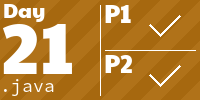
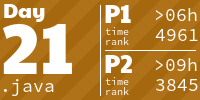
2024 day 21 complete

diff --git a/src/main/java/fr/home/mikedev/aoc2024/Main21.java b/src/main/java/fr/home/mikedev/aoc2024/Main21.java
@@ -1,12 +1,33 @@
 package fr.home.mikedev.aoc2024;
 
 import java.io.BufferedReader;
+import java.util.HashMap;
+import java.util.Map;
 
 import fr.home.mikedev.common.MainDay;
+import fr.home.mikedev.common.Pair;
 
 public class Main21 extends MainDay 
 {
-
+    String[] codes = new String[5];
+    
+    char[][] numpad = { {'7', '8', '9'}, 
+                        {'4', '5', '6'}, 
+                        {'1', '2', '3'}, 
+                        {'X', '0', 'A'} };
+    
+    char[][] dirpad = { {'X', '^', 'A'}, 
+                        {'<', 'v', '>'} };
+    
+    Map<Character, Pair<Integer>> numPadMap;
+    Map<Pair<Integer>, Character> numPadMapR;
+    Map<Character, Pair<Integer>> dirPadMap;
+    Map<Pair<Integer>, Character> dirPadMapR;
+    Map<Pair<Character>, String>   allPadDico;
+    
+    Map<String, String> convertCache;
+    Map<String, Long>   countCache;
+    
 	public Main21(String title, String year) {super(title, year, "21");}
 	
 	public void retrieveData()
@@ -14,9 +35,10 @@ public class Main21 extends MainDay
 		String line = null;	
 		try(BufferedReader reader = this.getReader())
 		{
+		    int i = 0;
             while((line = reader.readLine()) != null)
             {
-                log(line);
+                codes[i++] = line;
             }
 		}
 		catch (Exception ex)
@@ -28,13 +50,292 @@ public class Main21 extends MainDay
 	
 	public void doPart1()
 	{
+	    initData();
 		retrieveData();
-		setResultPart1(0);
+		
+		int sum = 0;
+		for(int c = 0; c < codes.length; c++)
+		{
+		    // 1 robotnumpad <- 1 robotdirpad <- 1 robotdirpad <- myself
+		    //  1 robotnumpad <- 2 robotdirpad <- myself
+		    String moves = codes[c];
+		    for(int i = 0; i < 3; i++)
+		    {
+		        moves = "A" + moves;
+		        moves = getMoveSequenceMemo(moves);
+		       //log(moves);
+		    }
+            
+            sum += moves.length()*Integer.parseInt(codes[c].substring(0, codes[c].length()-1));
+		}
+		
+		setResultPart1(sum); // 202648
 	}
 	
 	public void doPart2()
 	{
 		//retrieveData();
-	    setResultPart2(0);
+	    
+        long sum = 0;
+        for(int c = 0; c < codes.length; c++)
+        {
+            String moves = codes[c];
+            moves = "A" + moves;
+            moves = getMoveSequenceMemo(moves);
+        
+            moves = "A" + moves;
+            long len = 0;
+            for (int i = 0; i < moves.length()-1; i++)
+                len += countMove(moves.charAt(i), moves.charAt(i+1), 26);
+            
+            sum += len * Integer.parseInt(codes[c].substring(0, codes[c].length()-1));
+        }
+                
+	    setResultPart2(sum);
 	}
+	
+	String getMoveSequence(String code)
+    {
+        
+        String newCode = "";
+        for (int i = 0; i <code.length()-1; i++)
+            newCode += decompMove(code.charAt(i), code.charAt(i+1)) + 'A';
+        
+        return newCode;
+    }
+	
+	String getMoveSequenceMemo(String code)
+	{
+	    String newCode;
+	    if ((newCode = convertCache.get(code)) != null) return newCode;
+	    else newCode = "";
+	    for (int i = 0; i < code.length()-1; i++)
+            newCode += decompMove(code.charAt(i), code.charAt(i+1)) + 'A';
+            
+        convertCache.put(code, newCode);
+        return newCode;
+	}
+
+	String decompMove(char origine, char destination)
+	{
+	    if (origine == destination) return "";
+	    return allPadDico.get(Pair.<Character>builder().v1(origine).v2(destination).build());
+	}
+	
+	long countMove(char origine, char destination, int level)
+    {
+	    String key = String.valueOf(origine) + String.valueOf(destination) + String.valueOf(level);
+	    Long count;
+        if ((count = countCache.get(key)) != null) return count.longValue();
+        
+        if (level == 1) return 1; //decompMove(origine, destination).length();
+        
+        String s = "A" + decompMove(origine, destination) + "A";
+        long sum = 0;
+        for (int i = 0; i < s.length()-1; i++)
+            sum += countMove(s.charAt(i), s.charAt(i+1), level-1);
+        
+        countCache.put(key, sum);
+        return sum;
+    }
+	
+    public void initData()
+    {
+        convertCache = new HashMap<String, String>();
+        countCache   = new HashMap<String, Long>();
+        
+        numPadMap = new HashMap<Character, Pair<Integer>>();
+        numPadMap.put('7', Pair.<Integer>builder().v1(0).v2(0).o("7").build());
+        numPadMap.put('8', Pair.<Integer>builder().v1(0).v2(1).o("8").build());
+        numPadMap.put('9', Pair.<Integer>builder().v1(0).v2(2).o("9").build());
+        numPadMap.put('4', Pair.<Integer>builder().v1(1).v2(0).o("4").build());
+        numPadMap.put('5', Pair.<Integer>builder().v1(1).v2(1).o("5").build());
+        numPadMap.put('6', Pair.<Integer>builder().v1(1).v2(2).o("6").build());
+        numPadMap.put('1', Pair.<Integer>builder().v1(2).v2(0).o("1").build());
+        numPadMap.put('2', Pair.<Integer>builder().v1(2).v2(1).o("2").build());
+        numPadMap.put('3', Pair.<Integer>builder().v1(2).v2(2).o("3").build());
+        numPadMap.put('X', Pair.<Integer>builder().v1(3).v2(0).o("X").build());
+        numPadMap.put('0', Pair.<Integer>builder().v1(3).v2(1).o("0").build());
+        numPadMap.put('A', Pair.<Integer>builder().v1(3).v2(2).o("A").build());
+        
+        numPadMapR = new HashMap<Pair<Integer>, Character>();
+        numPadMapR.put(Pair.<Integer>builder().v1(0).v2(0).o("7").build(), '7');
+        numPadMapR.put(Pair.<Integer>builder().v1(0).v2(1).o("8").build(), '8');
+        numPadMapR.put(Pair.<Integer>builder().v1(0).v2(2).o("9").build(), '9');
+        numPadMapR.put(Pair.<Integer>builder().v1(1).v2(0).o("4").build(), '4');
+        numPadMapR.put(Pair.<Integer>builder().v1(1).v2(1).o("5").build(), '5');
+        numPadMapR.put(Pair.<Integer>builder().v1(1).v2(2).o("6").build(), '6');
+        numPadMapR.put(Pair.<Integer>builder().v1(2).v2(0).o("1").build(), '1');
+        numPadMapR.put(Pair.<Integer>builder().v1(2).v2(1).o("2").build(), '2');
+        numPadMapR.put(Pair.<Integer>builder().v1(2).v2(2).o("3").build(), '3');
+        numPadMapR.put(Pair.<Integer>builder().v1(3).v2(0).o("X").build(), 'X');
+        numPadMapR.put(Pair.<Integer>builder().v1(3).v2(1).o("0").build(), '0');
+        numPadMapR.put(Pair.<Integer>builder().v1(3).v2(2).o("A").build(), 'A');
+        
+        dirPadMap = new HashMap<Character, Pair<Integer>>();
+        numPadMap.put('X', Pair.<Integer>builder().v1(0).v2(0).o("X").build());
+        numPadMap.put('^', Pair.<Integer>builder().v1(0).v2(1).o("^").build());
+        numPadMap.put('A', Pair.<Integer>builder().v1(0).v2(2).o("A").build());
+        numPadMap.put('<', Pair.<Integer>builder().v1(1).v2(0).o("<").build());
+        numPadMap.put('v', Pair.<Integer>builder().v1(1).v2(1).o("v").build());
+        numPadMap.put('>', Pair.<Integer>builder().v1(1).v2(2).o(">").build());
+        
+        dirPadMapR = new HashMap<Pair<Integer>, Character>();
+        numPadMapR.put(Pair.<Integer>builder().v1(0).v2(0).o("X").build(), 'X');
+        numPadMapR.put(Pair.<Integer>builder().v1(0).v2(1).o("^").build(), '^');
+        numPadMapR.put(Pair.<Integer>builder().v1(0).v2(2).o("A").build(), 'A');
+        numPadMapR.put(Pair.<Integer>builder().v1(1).v2(0).o("<").build(), '<');
+        numPadMapR.put(Pair.<Integer>builder().v1(1).v2(1).o("v").build(), 'v');
+        numPadMapR.put(Pair.<Integer>builder().v1(1).v2(2).o(">").build(), '>');
+        
+        allPadDico = new HashMap<Pair<Character>, String>();
+        allPadDico.put(Pair.<Character>builder().v1('A').v2('0').o("A0").build(), "<");
+        allPadDico.put(Pair.<Character>builder().v1('A').v2('1').o("A1").build(), "^<<");
+        allPadDico.put(Pair.<Character>builder().v1('A').v2('2').o("A2").build(), "<^");
+        allPadDico.put(Pair.<Character>builder().v1('A').v2('3').o("A3").build(), "^");
+        allPadDico.put(Pair.<Character>builder().v1('A').v2('4').o("A4").build(), "^^<<");
+        allPadDico.put(Pair.<Character>builder().v1('A').v2('5').o("A5").build(), "<^^");
+        allPadDico.put(Pair.<Character>builder().v1('A').v2('6').o("A6").build(), "^^");
+        allPadDico.put(Pair.<Character>builder().v1('A').v2('7').o("A7").build(), "^^^<<");
+        allPadDico.put(Pair.<Character>builder().v1('A').v2('8').o("A8").build(), "<^^^");
+        allPadDico.put(Pair.<Character>builder().v1('A').v2('9').o("A9").build(), "^^^");
+        allPadDico.put(Pair.<Character>builder().v1('A').v2('^').o("A^").build(), "<");
+        allPadDico.put(Pair.<Character>builder().v1('A').v2('v').o("Av").build(), "<v");
+        allPadDico.put(Pair.<Character>builder().v1('A').v2('<').o("A<").build(), "v<<");
+        allPadDico.put(Pair.<Character>builder().v1('A').v2('>').o("A>").build(), "v");
+        
+        allPadDico.put(Pair.<Character>builder().v1('0').v2('A').o("0A").build(), ">");
+        allPadDico.put(Pair.<Character>builder().v1('0').v2('1').o("01").build(), "^<");
+        allPadDico.put(Pair.<Character>builder().v1('0').v2('2').o("02").build(), "^");
+        allPadDico.put(Pair.<Character>builder().v1('0').v2('3').o("03").build(), "^>");
+        allPadDico.put(Pair.<Character>builder().v1('0').v2('4').o("04").build(), "^^<");
+        allPadDico.put(Pair.<Character>builder().v1('0').v2('5').o("05").build(), "^^");
+        allPadDico.put(Pair.<Character>builder().v1('0').v2('6').o("06").build(), "^^>");
+        allPadDico.put(Pair.<Character>builder().v1('0').v2('7').o("07").build(), "^^^<");
+        allPadDico.put(Pair.<Character>builder().v1('0').v2('8').o("08").build(), "^^^");
+        allPadDico.put(Pair.<Character>builder().v1('0').v2('9').o("09").build(), "^^^>");
+        
+        allPadDico.put(Pair.<Character>builder().v1('1').v2('0').o("10").build(), "v>");
+        allPadDico.put(Pair.<Character>builder().v1('1').v2('A').o("1A").build(), "v>>");
+        allPadDico.put(Pair.<Character>builder().v1('1').v2('2').o("12").build(), ">");
+        allPadDico.put(Pair.<Character>builder().v1('1').v2('3').o("13").build(), ">>");
+        allPadDico.put(Pair.<Character>builder().v1('1').v2('4').o("14").build(), "^");
+        allPadDico.put(Pair.<Character>builder().v1('1').v2('5').o("15").build(), "^>");
+        allPadDico.put(Pair.<Character>builder().v1('1').v2('6').o("16").build(), "^>>");
+        allPadDico.put(Pair.<Character>builder().v1('1').v2('7').o("17").build(), "^^");
+        allPadDico.put(Pair.<Character>builder().v1('1').v2('8').o("18").build(), "^^>");
+        allPadDico.put(Pair.<Character>builder().v1('1').v2('9').o("19").build(), "^^>>");
+
+        allPadDico.put(Pair.<Character>builder().v1('2').v2('0').o("20").build(), "v");
+        allPadDico.put(Pair.<Character>builder().v1('2').v2('1').o("21").build(), "<");
+        allPadDico.put(Pair.<Character>builder().v1('2').v2('A').o("2A").build(), "v>");
+        allPadDico.put(Pair.<Character>builder().v1('2').v2('3').o("23").build(), ">");
+        allPadDico.put(Pair.<Character>builder().v1('2').v2('4').o("24").build(), "<^");
+        allPadDico.put(Pair.<Character>builder().v1('2').v2('5').o("25").build(), "^");
+        allPadDico.put(Pair.<Character>builder().v1('2').v2('6').o("26").build(), "^>");
+        allPadDico.put(Pair.<Character>builder().v1('2').v2('7').o("27").build(), "<^^");
+        allPadDico.put(Pair.<Character>builder().v1('2').v2('8').o("28").build(), "^^");
+        allPadDico.put(Pair.<Character>builder().v1('2').v2('9').o("29").build(), "^^>");
+
+        allPadDico.put(Pair.<Character>builder().v1('3').v2('0').o("30").build(), "<v");
+        allPadDico.put(Pair.<Character>builder().v1('3').v2('1').o("31").build(), "<<");
+        allPadDico.put(Pair.<Character>builder().v1('3').v2('2').o("32").build(), "<");
+        allPadDico.put(Pair.<Character>builder().v1('3').v2('A').o("3A").build(), "v");
+        allPadDico.put(Pair.<Character>builder().v1('3').v2('4').o("34").build(), "<<^");
+        allPadDico.put(Pair.<Character>builder().v1('3').v2('5').o("35").build(), "<^");
+        allPadDico.put(Pair.<Character>builder().v1('3').v2('6').o("36").build(), "^");
+        allPadDico.put(Pair.<Character>builder().v1('3').v2('7').o("37").build(), "<<^^");
+        allPadDico.put(Pair.<Character>builder().v1('3').v2('8').o("38").build(), "<^^");
+        allPadDico.put(Pair.<Character>builder().v1('3').v2('9').o("39").build(), "^^");
+
+        allPadDico.put(Pair.<Character>builder().v1('4').v2('0').o("40").build(), ">vv");
+        allPadDico.put(Pair.<Character>builder().v1('4').v2('1').o("41").build(), "v");
+        allPadDico.put(Pair.<Character>builder().v1('4').v2('2').o("42").build(), "v>");
+        allPadDico.put(Pair.<Character>builder().v1('4').v2('3').o("43").build(), "v>>");
+        allPadDico.put(Pair.<Character>builder().v1('4').v2('A').o("4A").build(), ">>vv");
+        allPadDico.put(Pair.<Character>builder().v1('4').v2('5').o("45").build(), ">");
+        allPadDico.put(Pair.<Character>builder().v1('4').v2('6').o("46").build(), ">>");
+        allPadDico.put(Pair.<Character>builder().v1('4').v2('7').o("47").build(), "^");
+        allPadDico.put(Pair.<Character>builder().v1('4').v2('8').o("48").build(), "^>");
+        allPadDico.put(Pair.<Character>builder().v1('4').v2('9').o("49").build(), "^>>");
+        
+        allPadDico.put(Pair.<Character>builder().v1('5').v2('0').o("50").build(), "vv");
+        allPadDico.put(Pair.<Character>builder().v1('5').v2('1').o("51").build(), "<v");
+        allPadDico.put(Pair.<Character>builder().v1('5').v2('2').o("52").build(), "v");
+        allPadDico.put(Pair.<Character>builder().v1('5').v2('3').o("53").build(), "v>");
+        allPadDico.put(Pair.<Character>builder().v1('5').v2('4').o("54").build(), "<");
+        allPadDico.put(Pair.<Character>builder().v1('5').v2('A').o("5A").build(), "vv>");
+        allPadDico.put(Pair.<Character>builder().v1('5').v2('6').o("56").build(), ">");
+        allPadDico.put(Pair.<Character>builder().v1('5').v2('7').o("57").build(), "<^");
+        allPadDico.put(Pair.<Character>builder().v1('5').v2('8').o("58").build(), "^");
+        allPadDico.put(Pair.<Character>builder().v1('5').v2('9').o("59").build(), "^>");
+
+        allPadDico.put(Pair.<Character>builder().v1('6').v2('0').o("60").build(), "<vv");
+        allPadDico.put(Pair.<Character>builder().v1('6').v2('1').o("61").build(), "<<v");
+        allPadDico.put(Pair.<Character>builder().v1('6').v2('2').o("62").build(), "<v");
+        allPadDico.put(Pair.<Character>builder().v1('6').v2('3').o("63").build(), "v");
+        allPadDico.put(Pair.<Character>builder().v1('6').v2('4').o("64").build(), "<<");
+        allPadDico.put(Pair.<Character>builder().v1('6').v2('5').o("65").build(), "<");
+        allPadDico.put(Pair.<Character>builder().v1('6').v2('A').o("6A").build(), "vv");
+        allPadDico.put(Pair.<Character>builder().v1('6').v2('7').o("67").build(), "<<^");
+        allPadDico.put(Pair.<Character>builder().v1('6').v2('8').o("68").build(), "<^");
+        allPadDico.put(Pair.<Character>builder().v1('6').v2('9').o("69").build(), "^");
+
+        allPadDico.put(Pair.<Character>builder().v1('7').v2('0').o("70").build(), ">vvv");
+        allPadDico.put(Pair.<Character>builder().v1('7').v2('1').o("71").build(), "vv");
+        allPadDico.put(Pair.<Character>builder().v1('7').v2('2').o("72").build(), "vv>");
+        allPadDico.put(Pair.<Character>builder().v1('7').v2('3').o("73").build(), "vv>>");
+        allPadDico.put(Pair.<Character>builder().v1('7').v2('4').o("74").build(), "v");
+        allPadDico.put(Pair.<Character>builder().v1('7').v2('5').o("75").build(), "v>");
+        allPadDico.put(Pair.<Character>builder().v1('7').v2('6').o("76").build(), "v>>");
+        allPadDico.put(Pair.<Character>builder().v1('7').v2('A').o("7A").build(), ">>vvv");
+        allPadDico.put(Pair.<Character>builder().v1('7').v2('8').o("78").build(), ">");
+        allPadDico.put(Pair.<Character>builder().v1('7').v2('9').o("79").build(), ">>");
+
+        allPadDico.put(Pair.<Character>builder().v1('8').v2('0').o("80").build(), "vvv");
+        allPadDico.put(Pair.<Character>builder().v1('8').v2('1').o("81").build(), "<vv");
+        allPadDico.put(Pair.<Character>builder().v1('8').v2('2').o("82").build(), "vv");
+        allPadDico.put(Pair.<Character>builder().v1('8').v2('3').o("83").build(), "vv>");
+        allPadDico.put(Pair.<Character>builder().v1('8').v2('4').o("84").build(), "<v");
+        allPadDico.put(Pair.<Character>builder().v1('8').v2('5').o("85").build(), "v");
+        allPadDico.put(Pair.<Character>builder().v1('8').v2('6').o("86").build(), "v>");
+        allPadDico.put(Pair.<Character>builder().v1('8').v2('7').o("87").build(), "<");
+        allPadDico.put(Pair.<Character>builder().v1('8').v2('A').o("8A").build(), "vvv>");
+        allPadDico.put(Pair.<Character>builder().v1('8').v2('9').o("89").build(), ">");
+
+        allPadDico.put(Pair.<Character>builder().v1('9').v2('0').o("90").build(), "<vvv");
+        allPadDico.put(Pair.<Character>builder().v1('9').v2('1').o("91").build(), "<<vv");
+        allPadDico.put(Pair.<Character>builder().v1('9').v2('2').o("92").build(), "<vv");
+        allPadDico.put(Pair.<Character>builder().v1('9').v2('3').o("93").build(), "vv");
+        allPadDico.put(Pair.<Character>builder().v1('9').v2('4').o("94").build(), "<<v");
+        allPadDico.put(Pair.<Character>builder().v1('9').v2('5').o("95").build(), "<v");
+        allPadDico.put(Pair.<Character>builder().v1('9').v2('6').o("96").build(), "v");
+        allPadDico.put(Pair.<Character>builder().v1('9').v2('7').o("97").build(), "<<");
+        allPadDico.put(Pair.<Character>builder().v1('9').v2('8').o("98").build(), "<");
+        allPadDico.put(Pair.<Character>builder().v1('9').v2('A').o("9A").build(), "vvv");
+        
+
+        allPadDico.put(Pair.<Character>builder().v1('^').v2('A').o("^A").build(), ">");
+        allPadDico.put(Pair.<Character>builder().v1('^').v2('v').o("^v").build(), "v");
+        allPadDico.put(Pair.<Character>builder().v1('^').v2('<').o("^<").build(), "v<");
+        allPadDico.put(Pair.<Character>builder().v1('^').v2('>').o("^>").build(), "v>");
+        
+
+        allPadDico.put(Pair.<Character>builder().v1('v').v2('^').o("v^").build(), "^");
+        allPadDico.put(Pair.<Character>builder().v1('v').v2('A').o("vA").build(), "^>");
+        allPadDico.put(Pair.<Character>builder().v1('v').v2('<').o("v<").build(), "<");
+        allPadDico.put(Pair.<Character>builder().v1('v').v2('>').o("v>").build(), ">");
+        
+
+        allPadDico.put(Pair.<Character>builder().v1('<').v2('^').o("<^").build(), ">^");
+        allPadDico.put(Pair.<Character>builder().v1('<').v2('v').o("<v").build(), ">");
+        allPadDico.put(Pair.<Character>builder().v1('<').v2('A').o("<A").build(), ">>^");
+        allPadDico.put(Pair.<Character>builder().v1('<').v2('>').o("<>").build(), ">>");
+        
+
+        allPadDico.put(Pair.<Character>builder().v1('>').v2('^').o(">^").build(), "<^");
+        allPadDico.put(Pair.<Character>builder().v1('>').v2('v').o(">v").build(), "<");
+        allPadDico.put(Pair.<Character>builder().v1('>').v2('<').o("><").build(), "<<");
+        allPadDico.put(Pair.<Character>builder().v1('>').v2('A').o(">A").build(), "^");
+    }
 }

diff --git a/src/main/java/fr/home/mikedev/aoc2024/MainAoc2024.java b/src/main/java/fr/home/mikedev/aoc2024/MainAoc2024.java
@@ -52,12 +52,12 @@ public class MainAoc2024
 		Main19 m19 = new Main19("Linen Layout", "2024");
 		m19.doPartAll();
 		Main20 m20 = new Main20("Race Condition", "2024");
-		m20.doPartAll();*/
-		Main21 m21 = new Main21("", "2024");
-		m21.doPartAll();
-		/*Main22 m22 = new Main22("", "2024");
+		m20.doPartAll();
+		Main21 m21 = new Main21("Keypad Conundrum", "2024");
+		m21.doPartAll();*/
+		Main22 m22 = new Main22("", "2024");
 		m22.doPartAll();
-		Main23 m23 = new Main23("", "2024");
+		/*Main23 m23 = new Main23("", "2024");
 		m23.doPartAll();
 		Main24 m24 = new Main24("", "2024");
 		m24.doPartAll();

diff --git a/README.md b/README.md
@@ -4,7 +4,7 @@
 
 <!-- AOC TILES BEGIN -->
 <h1 align="center">
-  2024 - 40 ⭐ - Java
+  2024 - 42 ⭐ - Java
 </h1>
 <a href="src/main/java/fr/home/mikedev/aoc2024/Main01.java">
   <img src=".aoc_tiles/tiles/2024/01.png" width="161px">
@@ -65,6 +65,9 @@
 </a>
 <a href="src/main/java/fr/home/mikedev/aoc2024/Main20.java">
   <img src=".aoc_tiles/tiles/2024/20.png" width="161px">
+</a>
+<a href="src/main/java/fr/home/mikedev/aoc2024/Main21.java">
+  <img src=".aoc_tiles/tiles/2024/21.png" width="161px">
 </a>
 <h1 align="center">
   2023 - 10 ⭐ - Java
